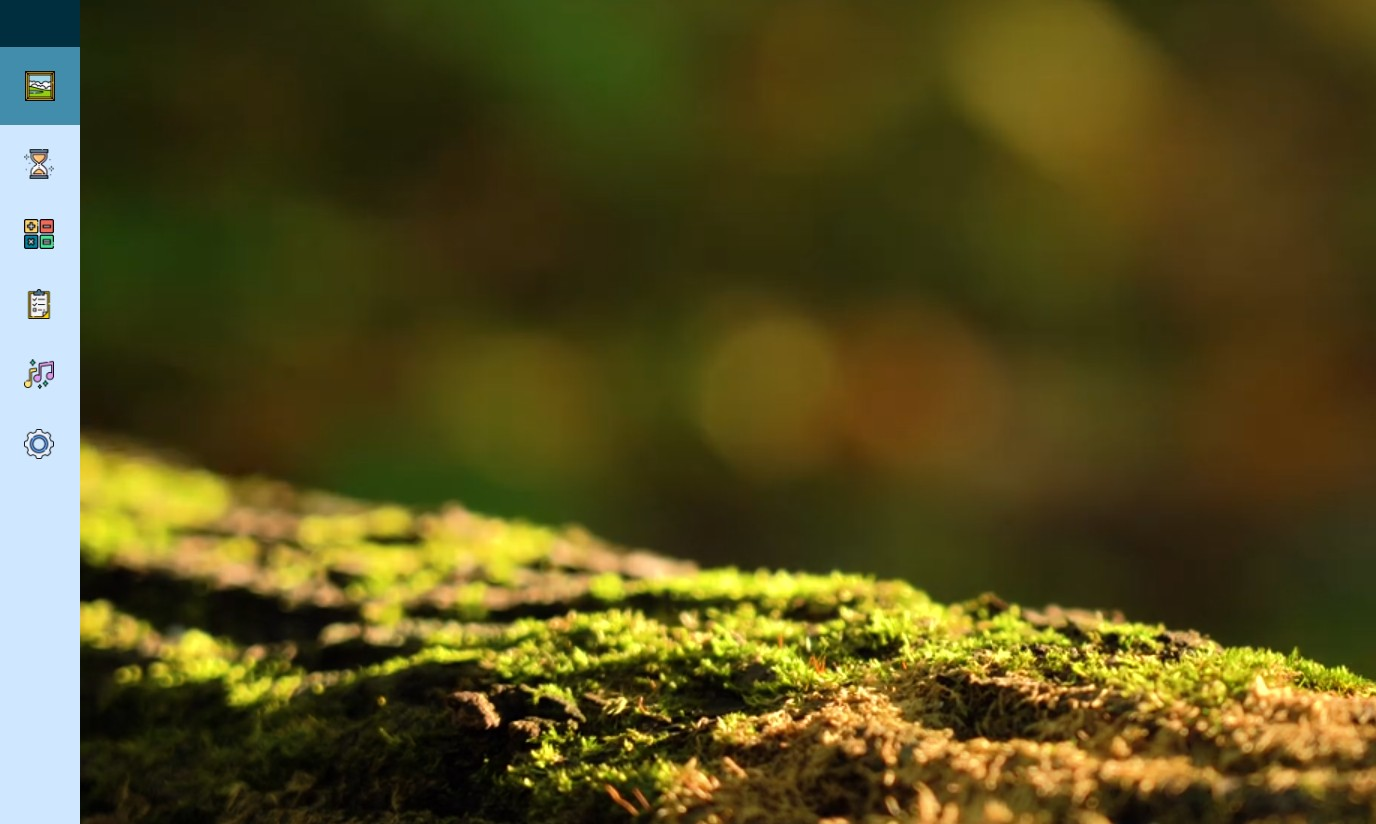
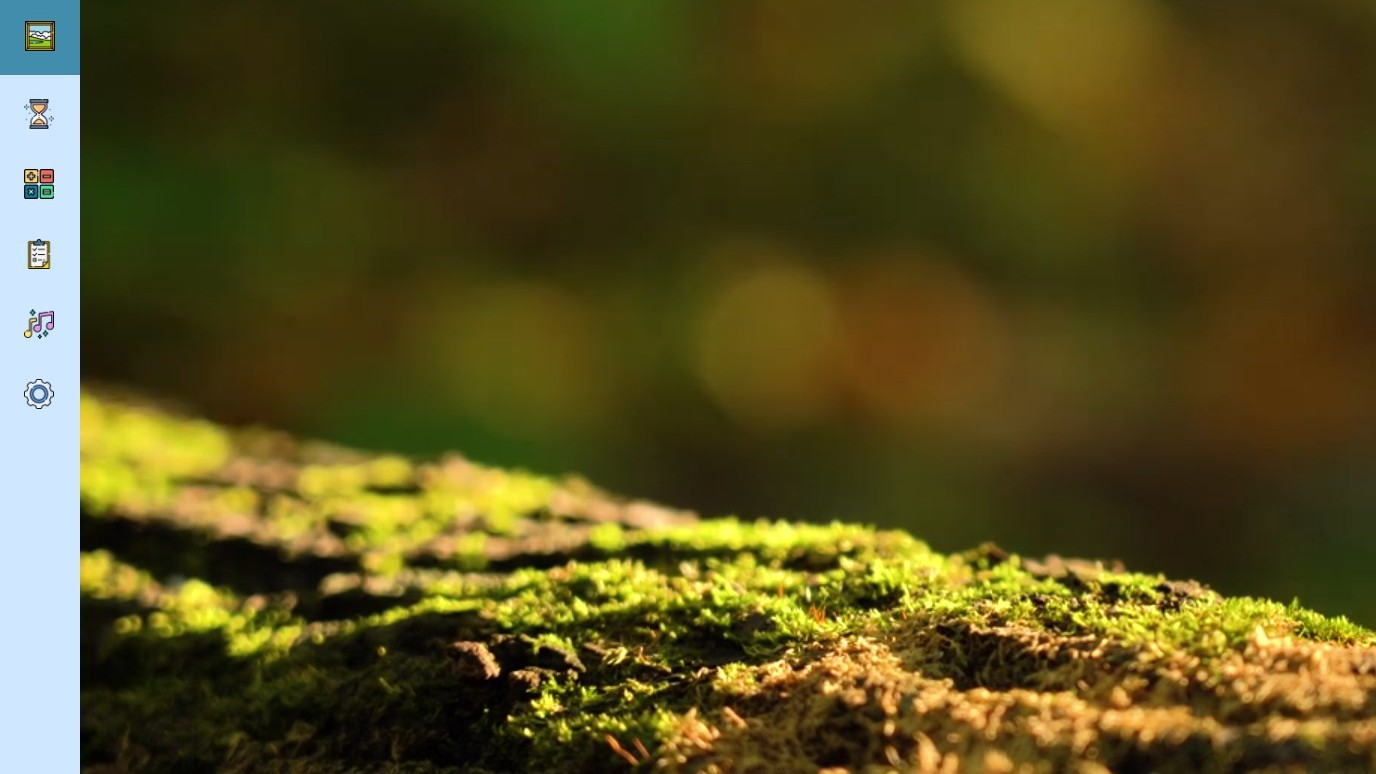
improved the achievements sections

diff --git a/index.html b/index.html
@@ -68,7 +68,8 @@
 					{ name: "Blackstreet, Dr.Dre, Queen Pen - No Diggity ", url: "https://open.spotify.com/track/6MdqqkQ8sSC0WB4i8PyRuQ?si=690b2d422ba64cf1" },
 					{ name: "LP - Other People", url: "https://open.spotify.com/track/32f4hFMwHkw3Ooeqf0hbnK?si=0c57d5c6a41e4b21" },
 					{ name: "Tame Impala – The Less I Know The Better", url: "https://open.spotify.com/track/6K4t31amVTZDgR3sKmwUJJ?si=880303804e9845a6" },
-					{ name: "Tame Impala - Dracula" , url:"https://open.spotify.com/track/1NXbNEAcPvY5G1xvfN57aA?si=bb17ee699e454786"}
+					{ name: "Tame Impala - Dracula" , url:"https://open.spotify.com/track/1NXbNEAcPvY5G1xvfN57aA?si=bb17ee699e454786"},
+					{ name: "Raye, Hans Zimmer - Click Clack Symphony", url:"https://open.spotify.com/track/0XOynYFi9hQfIXKnTct9A7?si=f7b20fe5d53443e5"}
 				];
 
 				const track = playlist[Math.floor(Math.random() * playlist.length)];
@@ -140,29 +141,32 @@
 					<section id="two">
 						<h2>Featured Projects</h2>
 						<div class="row">
+
+							<article class="col-6 col-12-xsmall work-item">
+								<a href="images/fulls/03.png" class="image fit thumb"><img src="images/thumbs/03.jpg" alt="" /></a>
+								<h3>Sign-Language Translation System</h3>
+								<p>A proposed system intended to help bridge the communication gap between sign language users and non-signers, promoting more accessible and independent communication. The system includes an Android app for communication, a proposed wearable component for acquiring EMG signals, and a machine learning pipeline for processing and classifying gestures into text-based outputs. Press <a href="https://github.com/codingsanji/SignLink_main" target="_blank">here</a> to see its repository.</p>
+							</article>
+
+
+							<article class="col-6 col-12-xsmall work-item">
+								<a href="images/fulls/02.gif" class="image fit thumb"><img src="images/thumbs/02.jpg" alt="" /></a>
+								<h3>FlowKeys (in-progress)</h3>
+								<p>Python-based typing practice application inspired by MonkeyType but it runs fully offline and locally using Tkinter and integrates lightweight AI features to help you analyze, improve, and personalize your typing experience. Press <a href="https://github.com/codingsanji/FlowKeys" target="_blank">here</a> to see its repository.</p>
+							</article>
+
+							<article class="col-6 col-12-xsmall work-item">
+								<a href="images/fulls/05.jpg" class="image fit thumb"><img src="images/thumbs/05.jpg" alt="" /></a>
+								<h3>AuroraAI (coming soon)</h3>
+								<p>AuroraAI is an application divided into two distinct phases - binary event classification & temporal regression dealing with the prediction of the Aurora phenomenons. Press <a href="https://github.com/codingsanji/AuroraAI" target="_blank">here</a> to see its repository.</p>
+							</article>
+
 							<article class="col-6 col-12-xsmall work-item">
 								<a href="images/fulls/01.gif" class="image fit thumb"><img src="images/thumbs/01.jpg" alt="" /></a>
 								<h3>Mini Study-Lobby</h3>
 								<p>Part of a bigger project but it can be used as your all-in-one productivity hub to keep yourself focused and motivated. Press <a href="https://github.com/codingsanji/StudyLobby" target="_blank">here</a> to see its repository.</p>
 							</article>
 
-							<article class="col-6 col-12-xsmall work-item">
-								<a href="images/fulls/03.gif" class="image fit thumb"><img src="images/thumbs/03.jpg" alt="" /></a>
-								<h3>AuroraAI (coming soon)</h3>
-								<p>AuroraAI is an application divided into two distinct phases - binary event classification & temporal regression dealing with the prediction of the Aurora phenomenons. Press <a href="https://github.com/codingsanji/AuroraAI" target="_blank">here</a> to see its repository.</p>
-							</article>
-
-							<article class="col-6 col-12-xsmall work-item">
-								<a href="images/fulls/02.gif" class="image fit thumb"><img src="images/thumbs/02.jpg" alt="" /></a>
-								<h3>FlowKeys (coming soon)</h3>
-								<p>Python-based typing practice application inspired by MonkeyType but it runs fully offline and locally using Tkinter and integrates lightweight AI features to help you analyze, improve, and personalize your typing experience. Press <a href="https://github.com/codingsanji/FlowKeys" target="_blank">here</a> to see its repository.</p>
-							</article>
-
-							<article class="col-6 col-12-xsmall work-item">
-								<a href="images/fulls/03.jpg" class="image fit thumb"><img src="images/thumbs/03.jpg" alt="" /></a>
-								<h3>Sign-Language Translation Band (coming soon)</h3>
-								<p>Outputs what is signed when device is worn on hand. Press <a href="https://github.com/codingsanji/SignLink" target="_blank">here</a> to see its repository.</p>
-							</article>
 							
 						</div>
 						<ul class="actions">
@@ -170,95 +174,134 @@
 						</ul>
 					</section>
 				
+				
+
 				<!-- Three -->
 					<section id="three">
-					<h2>Licenses & Certifications</h2>
-					<p>
-						Continuous learning has always been an important part of my journey —
-						here are a few certifications across different areas of technology.
-					</p>
+						<h2>Licenses & Certifications</h2>
 
-					<ul class="cert-list">
-						<li>
-						<strong>IELTS Academic</strong> — <em>British Council IELTS</em><br>
-						<em class="credential-id">Credential ID: 25VN510586STT028A</em> <br>
-						<a href="https://ielts.org/organisations/ielts-for-organisations/verifying-ielts-results" target="_blank">
-							View Credential
-						</a> 
-						<a href="images/certificates/ielts.jpeg" target="_blank">
-							View Certificate
-						</a>
-						</li>
-						<li>
-						<strong>Google Agile Essentials</strong> — <em>Coursera (Google)</em><br>
-						<em class="credential-id">Credential ID: DYVEMO7TF4K7</em> <br>
-						<a href="https://www.coursera.org/account/accomplishments/verify/DYVEMO7TF4K7" target="_blank">
-							View Credential
-						</a>
-						<a href="images/certificates/coursera_1.jpeg" target="_blank">
-							View Certificate
-						</a>
-						</li>
-						<li>
-						<strong>Computational Thinking for Problem Solving</strong> — <em>Coursera (University of Pennsylvania)</em><br>
-						<em class="credential-id">Credential ID: 6P8TYSHFPYPM</em> <br>
-						<a href="https://www.coursera.org/account/accomplishments/records/6P8TYSHFPYPM" target="_blank">
-							View Credential
-						</a>
-						<a href="images/certificates/coursera_2.jpeg" target="_blank">
-							View Certificate
-						</a>
-						</li>
-					</ul>
+						<p>
+							Continuous learning has always been an important part of my journey —
+							here are a few certifications and achievements across different stages
+							of my education.
+						</p>
+
+						<!-- University -->
+						<div class="cert-group">
+							<button class="cert-toggle" type="button">
+								<span>
+									<strong>University</strong>
+									<small>Certifications & academic development</small>
+								</span>
+								<span class="cert-arrow">+</span>
+							</button>
+
+							<div class="cert-content">
+								<ul class="cert-list">
+									
+									<li>
+										<strong>TESOL Certification</strong> — <em>Madison Education Group & MSPD</em><br>
+										<em class="credential-id">Credential ID: Vietop260401</em><br>
+										<a href="images/certificates/TESOL.jpg" target="_blank">
+											View Certificate
+										</a>
+									</li>
+
+									<li>
+										<strong>IELTS Academic</strong> — <em>British Council IELTS</em><br>
+										<em class="credential-id">Credential ID: 25VN510586STT028A</em><br>
+										<a href="https://ielts.org/organisations/ielts-for-organisations/verifying-ielts-results" target="_blank">
+											View Credential
+										</a>
+										<a href="images/certificates/ielts.jpeg" target="_blank">
+											View Certificate
+										</a>
+									</li>
+
+									<li>
+										<strong>Google Agile Essentials</strong> — <em>Coursera (Google)</em><br>
+										<em class="credential-id">Credential ID: DYVEMO7TF4K7</em><br>
+										<a href="https://www.coursera.org/account/accomplishments/verify/DYVEMO7TF4K7" target="_blank">
+											View Credential
+										</a>
+										<a href="images/certificates/coursera_1.jpeg" target="_blank">
+											View Certificate
+										</a>
+									</li>
+
+									<li>
+										<strong>Computational Thinking for Problem Solving</strong> —
+										<em>Coursera (University of Pennsylvania)</em><br>
+										<em class="credential-id">Credential ID: 6P8TYSHFPYPM</em><br>
+										<a href="https://www.coursera.org/account/accomplishments/records/6P8TYSHFPYPM" target="_blank">
+											View Credential
+										</a>
+										<a href="images/certificates/coursera_2.jpeg" target="_blank">
+											View Certificate
+										</a>
+									</li>
+
+								</ul>
+							</div>
+						</div>
+
+						<!-- High School -->
+						<div class="cert-group">
+							<button class="cert-toggle" type="button">
+								<span>
+									<strong>High School</strong>
+									<small>Achievements & extracurricular activities</small>
+								</span>
+								<span class="cert-arrow">+</span>
+							</button>
+
+							<div class="cert-content">
+								<ul class="cert-list">
+
+									<li>
+										<strong>Confucius House Captain</strong> —
+										<em>Al Khor International School</em><br>
+										<em class="credential-id">
+											Under our leadership, the Confucius House achieved multiple victories in inter-house competitions.
+										</em>
+									</li>
+
+									<li>
+										<strong>Model United Nations</strong> —
+										<em>AKISMUN 2021</em><br>
+										<em class="credential-id">
+											Awarded Best Delegate in the General Assembly 2 (GA2) Committee
+										</em>
+									</li>
+
+									<li>
+										<strong>Qatar Cluster Events — Football & Athletics</strong> —
+										<em>CBSE</em><br>
+										<em class="credential-id">
+											Represented Al Khor International School in Football, Shot Put and
+											Discus Throw (2015–2021). Earned multiple awards and recognitions
+											for performance and teamwork, and qualified for Nationals.
+										</em>
+									</li>
+
+									<li>
+										<strong>Qatar Municipality Art Competition </strong> —
+										<em>Qatar Municipality</em><br>
+										<em class="credential-id">
+											Selected to represent Al Khor International School at the Qatar
+											Municipality Art Exhibition (2017), where my artwork was exhibited
+											and received recognition.
+										</em><br>
+										<a href="images/certificates/Art2017.jpg" target="_blank">
+											View Picture
+										</a>
+									</li>
+
+								</ul>
+							</div>
+						</div>
+
 					</section>
-
-				<!-- Four 
-					<section class="four">
-						<h2 class="title" style="text-align: center">Highlighted Achievements</h2>
-
-						<div class="timeline-line"></div>
-
-						<div class="timeline-item left">
-						<div class="content">
-						<h3>Merit-Based Scholarship (2024)</h3>
-						<p>Awarded scholarship for academic excellence and consistent performance.</p>
-						</div>
-						<div class="dot"></div>
-						</div>
-
-						<div class="timeline-item right">
-						<div class="content">
-						<h3>AKIS's Confucius House Captain (2022–2023)</h3>
-						<p>Organized house events, guided house-mates and represented my house in major school activities. Under our lead, Confucius won 1st in the Annual Sports Day March Past amongst other achievements.</p>
-						</div>
-						<div class="dot"></div>
-						</div>
-
-						<div class="timeline-item left">
-						<div class="content">
-						<h3>Athletics & Football Member (2015-2023)</h3>
-						<p>Represented AKIS in Clusters and SOP for shot-put, discus throw and football. Qualified for nationals.</p>
-						</div>
-						<div class="dot"></div>
-						</div>
-
-						<div class="timeline-item right">
-						<div class="content">
-						<h3>Model United Nations (2020-2021)</h3>
-						<p>Participated in multiple conferences and won Best Delegate in General Assembly 2 (GA2).</p>
-						</div>
-						<div class="dot"></div>
-						</div>
-
-						<div class="timeline-item left">
-						<div class="content">
-						<h3>Art Exhibit (2018)</h3>
-						<p>Selected to represent AKIS at Art Competition hosted by Qatar Municipality. Art was displayed at exhibition and was awarded for work.</p>
-						</div>
-						<div class="dot"></div>
-						</div>
-
-					</section> -->
 
 					
 		<!-- Footer -->

diff --git a/assets/css/main.css b/assets/css/main.css
@@ -3268,6 +3268,9 @@ input, select, textarea {
 	font-style: italic;
 	}
 
+
+	
+
 /* Music */
 	.spotify-pill {
 		position: relative;      
@@ -3380,3 +3383,86 @@ input, select, textarea {
 		.timeline-line {
 			top: 140px;
 	}}
+
+
+
+	.cert-group {
+		margin-bottom: 1.5em;
+	}
+
+	.cert-toggle {
+		width: 100%;
+		display: flex;
+		align-items: center;
+		justify-content: space-between;
+
+		padding: 1em 1.2em;
+
+		background: transparent;
+		border: solid 1px #efefef;
+		border-radius: 4px;
+
+		color: #787878;
+		text-align: left;
+		cursor: pointer;
+
+		transition: border-color 0.2s ease,
+					background 0.2s ease;
+	}
+
+	.cert-toggle:hover {
+		border-color: #49bf9d;
+		background: rgba(73, 191, 157, 0.03);
+	}
+
+	.cert-toggle span:first-child {
+		display: flex;
+		flex-direction: column;
+	}
+
+	.cert-toggle strong {
+		color: #787878;
+		font-size: 1.4em;
+		font-weight: 700;
+	}
+
+	.cert-toggle small {
+		margin-top: 0.15em;
+		color: #999;
+		font-size: 1.1em;
+	}
+
+	.cert-arrow {
+		color: #49bf9d;
+		font-size: 1.4em;
+		transition: transform 0.25s ease;
+	}
+
+	/* Collapsed content */
+
+	.cert-content {
+		max-height: 0;
+		overflow: hidden;
+		opacity: 0;
+
+		transition:
+			max-height 0.35s ease,
+			opacity 0.25s ease;
+	}
+
+	/* Expanded content */
+
+	.cert-group.active .cert-content {
+		max-height: 1000px;
+		opacity: 1;
+	}
+
+	.cert-group.active .cert-arrow {
+		transform: rotate(45deg);
+	}
+
+	/* Spacing inside expanded section */
+
+	.cert-content .cert-list {
+		margin-top: 1.2em;
+	}

diff --git a/assets/js/main.js b/assets/js/main.js
@@ -114,4 +114,14 @@
 
 			});
 
+	// Certification collapsible sections.
+
+		$('.cert-toggle').on('click', function() {
+			var $group = $(this).closest('.cert-group');
+
+			$group.toggleClass('active');
+		});
+
 })(jQuery);
+
+
